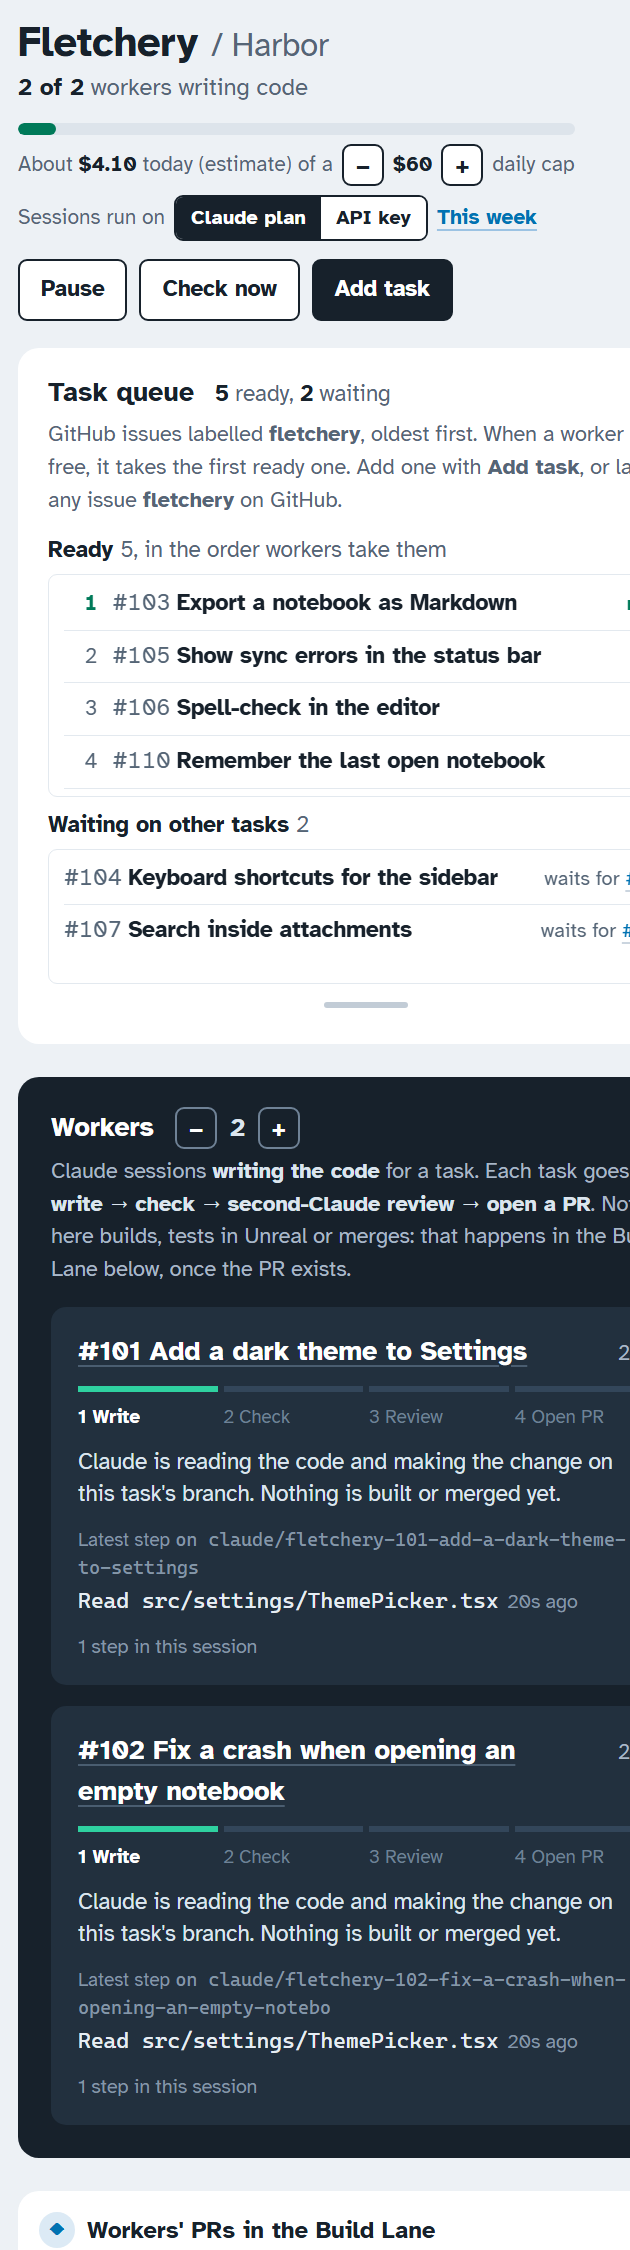
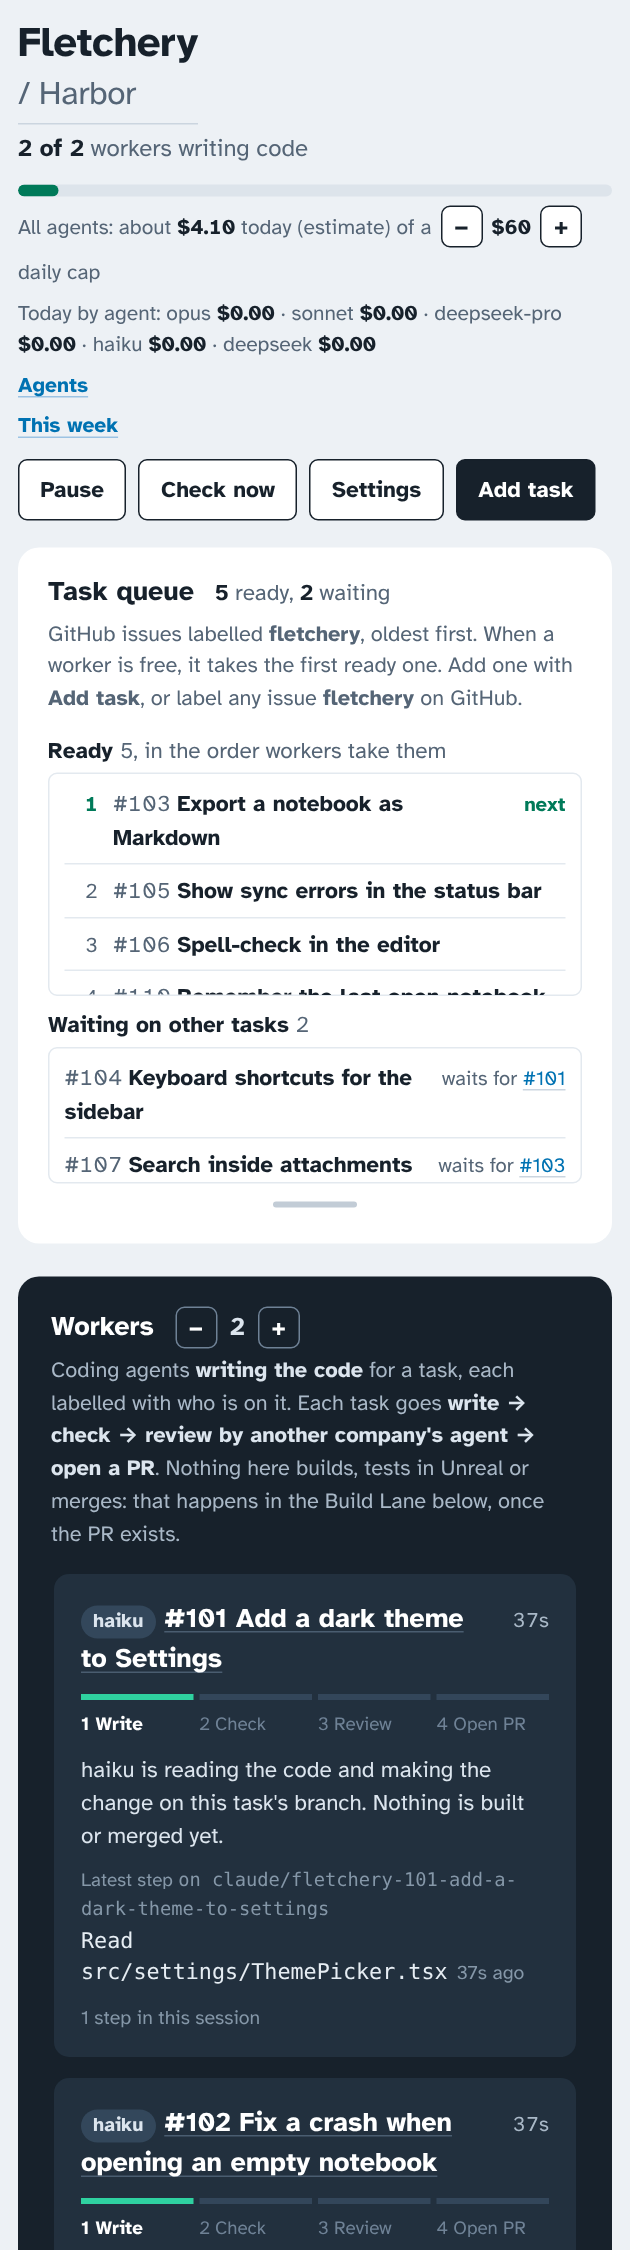
README rewritten around Settings, Accounts and agents; new screenshots
- Install no longer asks for a profile file: fill in the project in Settings.
- New sections: Coding agents (how it picks, scores, adding a model, accounts), Add another project, Settings.
- Everyday tasks, costs and troubleshooting updated (0 workers, Accounts, sign-ins, limits shared per account).
- Screenshots retaken from the Harbor demo, plus agents, accounts, settings and projects; ?open=settings|accounts|projects
  and ?scores=<agent> let Make-Screenshots.ps1 take them.

Claude-Session: https://claude.ai/code/session_014qW22QyV89sta7H7nZZoKp

diff --git a/ui/index.html b/ui/index.html
@@ -1496,7 +1496,7 @@ $("taskForm").onsubmit = async ev => {
   finally { save.disabled = false; }
 };
 
-// ?open=week|add opens that dialog, and #<section id> scrolls to it, once the first data is in (docs screenshots).
+// ?open=week|add|settings|accounts|projects opens that dialog, ?scores=<agent> opens that agent's scores, and #<section id> scrolls to it, once the first data is in (docs screenshots).
 const params = new URLSearchParams(location.search);
 // ?only=queue|workers|lane|board shows just that part (the docs' section screenshots)
 const only = params.get("only");
@@ -1507,6 +1507,8 @@ if (only) {
 refresh().then(() => {
   if (params.get("open") === "week" && last) { renderWeek(last); $("weekDlg").showModal(); }
   if (params.get("open") === "add") { $("dlg").showModal(); }
+  if (["settings", "accounts", "projects"].includes(params.get("open"))) openSettings(params.get("open") === "settings" ? "project" : params.get("open"));
+  if (params.get("scores")) document.querySelectorAll("details.mrow").forEach(d => { if (d.dataset.sc === params.get("scores")) d.open = true; });
   if (location.hash) { const el = document.getElementById(location.hash.slice(1)); if (el) el.scrollIntoView(); }
 });
 setInterval(refresh, 3000);

diff --git a/README.md b/README.md
@@ -6,33 +6,35 @@
 
 <p align="center"><strong>Turn GitHub issues into finished, tested pull requests while you do something else.</strong></p>
 
-Fletchery is a Windows app for one person and a team of Claude workers. You write what you want as GitHub issues.
-Claude writes each change on its own branch, Fletchery checks it, a second Claude reviews it, and it becomes a pull
-request. Your build lane then builds, tests and merges it. One window shows all of it, and nothing merges without passing
-your checks.
+Fletchery is a Windows app for one person and a team of AI coding agents (Claude, Codex, DeepSeek and others through
+OpenCode). You write what you want as GitHub issues. An agent writes each change on its own branch, Fletchery checks
+it, an agent from a different company reviews it, and it becomes a pull request. Your build lane then builds, tests
+and merges it. One window shows all of it, and nothing merges without passing your checks.
 
 ![Fletchery with a queue of tasks, two workers writing code, and their pull requests (illustrative data)](docs/images/fletchery/overview.png)
 
 <sub>Every screenshot here is the real app showing a made-up project, "Harbor". See [where the pictures come from](#where-the-pictures-come-from).</sub>
 
 **Jump to:** [How it works](#how-it-works) · [Install](#install) · [First ten minutes](#first-ten-minutes) ·
-[Everyday tasks](#everyday-tasks) · [Costs and limits](#costs-and-limits) · [Project rules](#project-rules) ·
+[Everyday tasks](#everyday-tasks) · [Coding agents](#coding-agents) · [Add another project](#add-another-project) ·
+[Settings](#settings) · [Costs and limits](#costs-and-limits) · [Project rules](#project-rules) ·
 [Something looks wrong](#something-looks-wrong) · [For developers](#for-developers)
 
 ## How it works
 
 ```
  GitHub issues ──▶ Workers ──────────────────────────────▶ Pull request ──▶ Build Lane ──▶ merged
- (your tasks)     Claude writes it, Fletchery checks it,          ▲         builds and tests
-                  a second Claude reviews it                      │         on your PC
+ (your tasks)     an agent writes it, Fletchery checks it,        ▲         builds and tests
+                  another company's agent reviews it              │         on your PC
                                                                   └── fixer ◀── sent back
 ```
 
 | Part | What you see | What it does |
 |---|---|---|
 | **Task queue** | Issues with the project's label, oldest first, the next one marked | Waits for a free worker. A task that says `Depends on: #12` waits until #12 is done |
-| **Workers** | Each worker's task, its step (write, check, review, open PR) and the last thing it did | Claude sessions writing code on their own branches. They never build, merge or touch your other work |
+| **Workers** | Each worker's task, which agent has it, its step (write, check, review, open PR) and the last thing it did | Agent sessions writing code on their own branches. They never build, merge or touch your other work |
 | **Workers' PRs** and **Needs you** | The pull requests workers opened, and tasks that stopped for a decision | A PR the lane sends back goes to a fixer automatically, twice at most; after that it asks you |
+| **Agents** | Each provider (Anthropic, OpenAI, OpenCode Go…) and its models, with scores and status | Picks the cheapest agent good enough for each task, and switches agents on or off |
 | **Build Lane** | What is building, which step, how far, and the PRs waiting | Your own build machine, as before. Fletchery shows it and can pause it |
 
 <p>
@@ -42,49 +44,43 @@ your checks.
 ## Install
 
 **You need:** Windows 10 or 11, [Python 3.10 or newer](https://www.python.org/downloads/) (tick *Add python.exe to PATH*),
-[Git](https://git-scm.com/download/win), the [GitHub CLI](https://cli.github.com/) signed in (`gh auth login`), and
-[Claude Code](https://docs.claude.com/en/docs/claude-code/overview) signed in to your Claude plan (run `claude`, then
-`/login`). Microsoft Edge's WebView2, which draws the window, is already part of Windows 10 and 11.
+[Git](https://git-scm.com/download/win), the [GitHub CLI](https://cli.github.com/) signed in (`gh auth login`), and at
+least one coding agent signed in: [Claude Code](https://docs.claude.com/en/docs/claude-code/overview) (run `claude`,
+then `/login`), the Codex CLI (`codex login`) or [OpenCode](https://opencode.ai) (`opencode auth login`). Microsoft Edge's WebView2, which draws the window, is already part of Windows 10 and 11.
 
 1. **Get the code:** clone this repository, or use **Code → Download ZIP** and extract it.
-2. **Describe your project** in a profile. Copy [`examples/Example.profile.json`](examples/Example.profile.json) and fill
-   in the repository and the folder of a local clone; [First ten minutes](#first-ten-minutes) walks through it.
-3. **Run the installer** in Windows PowerShell, in the repository folder:
+2. **Run the installer** in Windows PowerShell, in the repository folder:
 
    ```powershell
-   powershell -NoProfile -ExecutionPolicy Bypass -File .\shell\Install-Fletchery.ps1 -Profile C:\path\to\MyProject.profile.json
+   powershell -NoProfile -ExecutionPolicy Bypass -File .\shell\Install-Fletchery.ps1
    ```
 
    It builds `Fletchery.exe` with the compiler that comes with Windows, installs the Claude Agent SDK for Python if it
    is missing, copies the app to `%LOCALAPPDATA%\Programs\Fletchery`, and adds **Fletchery** to the desktop and the
    Start menu. No administrator rights.
 
-4. **Open Fletchery.** To update later, pull this repository and run the installer again. Fletchery picks up the new
+3. **Open Fletchery** and fill in your project in **Settings** ([First ten minutes](#first-ten-minutes)). To update later, pull this repository and run the installer again. Fletchery picks up the new
    version between tasks, never in the middle of one.
 
 ## First ten minutes
 
-**1. The profile.** One small file per project:
+**1. Point it at your project.** Clone your repository somewhere on this PC first, for example
+`git clone https://github.com/you/harbor.git C:\Code\harbor`. Then open **Settings** and fill in **This project**:
 
-```json
-{
-  "name": "Harbor",
-  "repo": "example/harbor",
-  "workers": {
-    "projectRoot": "C:\\Code\\harbor",
-    "baseBranch": "main",
-    "label": "fletchery",
-    "maxParallel": 2,
-    "dailyBudgetUsd": 20
-  }
-}
-```
+- **GitHub repository**: `owner/name`, or paste its GitHub link.
+- **Local clone**: the folder you just cloned to. Fletchery makes each task its own worktree from it and never edits
+  your checked-out files.
+- **Base branch**: where pull requests go, usually `main`.
+- **Task label**: issues with this label become tasks (`fletchery` by default).
 
-- `repo` is `owner/name` from the GitHub address.
-- `projectRoot` is a local clone that Fletchery can make branches from; it never edits your checked-out files.
-- Issues with `label` are tasks.
-- `baseBranch` is where pull requests go.
-- If you also have a Build Lane, add its `statusFile`, `pauseFile` and `drive` (the same fields the classic app uses), and the Build Lane panel appears.
+Press **Check the project** to see that GitHub and the clone line up, then **Save**. Fletchery restarts once to pick
+it up. If you have a Build Lane, fill in its status file, pause file and drive under **Build Lane**, and its panel
+appears.
+
+<p><img src="docs/images/fletchery/settings.png" width="80%" alt="Settings, This project: name, repository, local clone, base branch, task label, then worker and Build Lane settings"></p>
+
+<sub>Prefer files? Everything here is saved in a small profile in `%APPDATA%\Fletchery\Projects`. See
+[`examples/Example.profile.json`](examples/Example.profile.json).</sub>
 
 **2. Give it a task.** Press **Add task** (or label any issue `fletchery` on GitHub). Write it like you would for a
 colleague: what to change, what not to touch, and how to tell it worked.
@@ -104,31 +100,89 @@ task lands under **Needs you**, its issue says what it needs; answer in a commen
 |---|---|
 | Add work | **Add task**, or label an issue on GitHub. `Depends on: #12` in the description makes it wait for #12 |
 | Stop new work for a while | **Pause** (top right). Workers already running finish; nothing new starts until **Resume** |
-| Run more or fewer workers at once | **−** / **+** next to *Workers* (1 to 6) |
+| Run more or fewer workers at once | **−** / **+** next to *Workers* (0 to 6) |
+| Stop new code but keep merging and building | Turn *Workers* down to **0**. Running sessions finish; the Build Lane carries on |
 | Spend less | **−** next to the daily cap. At the cap no new work starts that day |
 | See this week's usage | **This week** under the cap |
-| Switch between my Claude plan and an API key | **Claude plan** / **API key** under the cap (applies to the next session) |
-| Use Codex, DeepSeek or another agent too | Add `agents` to the profile ([Coding agents](docs/AGENTS.md)); then **On** / **Off** per agent in the Agents panel |
+| Switch an agent between its plan and an API key | **Settings > Accounts**, *Runs on* next to the agent (applies to its next session) |
+| Use Codex, DeepSeek or another model too | **Add agent** in the Agents panel, then **On** / **Off** per model ([Coding agents](#coding-agents)) |
+| See why an agent gets the tasks it does | Open its row in the Agents panel for its scores |
 | Send one task to a particular agent | An `agent:<name>` label, or `Agent: <name>` on its own line in the issue |
-| Store an API key for an agent | **Set** next to the key in the Agents panel (kept in Windows Credential Manager) |
+| Store an API key for an agent | **Settings > Accounts > API keys** (kept in Windows Credential Manager) |
+| Sign an agent in again | **Settings > Accounts**, **Sign in** next to its provider |
+| Work on another repository | **Settings > Projects** ([Add another project](#add-another-project)) |
 | Stop builds on the build PC | **Pause builds** in the Build Lane panel. A build already running finishes |
 | Close the window but keep working | Close it. Fletchery stays in the tray; right-click the tray icon to quit |
 | Make the task list taller | Drag the handle under the Task queue (or focus it and use the arrow keys) |
 
+## Coding agents
+
+The **Agents** panel groups agents by where they come from: **Anthropic** (Claude Code), **OpenAI** (Codex CLI) and
+each OpenCode provider, such as **OpenCode Go** for DeepSeek or Haiku. Each model is one row with its overall score, its
+status and an **On / Off** switch.
+
+![The Agents panel: Anthropic with opus and sonnet, OpenAI with two Codex models switched off, OpenCode Go with DeepSeek and Haiku; opus is open to show its scores](docs/images/fletchery/agents.png)
+
+**How it picks.** Each task gets a kind (C++ / Unreal, Python & tools, UI, Docs & data) and a difficulty (easy,
+medium, hard). Each difficulty has a bar. The cheapest agent that is on, signed in, not at a limit and scores above the
+bar gets the task. The review goes to the best reviewer from a different company than the writer. If an agent fails,
+the task moves up to a stronger one before it asks you.
+
+**Where the scores come from.** They start from public coding benchmarks for the model, then move with how the agent
+actually does on your tasks. Open a row to see each score and where it came from, and use **Edit scores** to set one
+yourself. **Refresh benchmarks** fetches the latest list. To send one task to a particular agent, give its issue an
+`agent:<name>` label.
+
+**Adding a model.** Press **Add agent** and type the model (for example `opencode-go/claude-haiku-5-5`). The name,
+company and scores fill in by themselves. [Coding agents](docs/AGENTS.md) has the details.
+
+**Accounts.** Sign-ins, plan or API key, and API keys are in **Settings > Accounts** (or **Accounts & keys** on the
+panel). Models on one sign-in share its limits, so when OpenCode Go hits its limit, all its models pause together and
+the others carry on.
+
+<p><img src="docs/images/fletchery/accounts.png" width="80%" alt="Settings, Accounts: each provider with a Sign in button, and each agent's status and whether it runs on the plan or an API key"></p>
+
+## Add another project
+
+Fletchery works on one project at a time and remembers all of them.
+
+1. Clone the new repository on this PC, for example `git clone https://github.com/you/desk-app.git C:\Code\desk-app`.
+2. Open **Settings > Projects** and fill in **Add a project**: a name, the repository, the clone folder, the base
+   branch and the task label.
+3. Press **Add project**. Fletchery checks that GitHub and the clone match, and creates the task labels on GitHub
+   (`fletchery`, `fletchery:queued`, `:running`, `:pr`, `:blocked`). The new project starts with one worker and a $20
+   daily cap, and can copy your agents.
+4. Press **Switch to it**. Running sessions finish first, then Fletchery opens the other project. Switch back the same
+   way.
+
+<p><img src="docs/images/fletchery/projects.png" width="80%" alt="Settings, Projects: the list of projects with Switch to it, and the Add a project form"></p>
+
+Optional: give the repository a `.fletchery/` folder with its own rules ([Project rules](#project-rules)).
+
+## Settings
+
+**Settings** (top of the window) has three tabs:
+
+| Tab | What's there |
+|---|---|
+| **This project** | Repository, clone, base branch, label; workers at once, daily cap, how often to check GitHub, fix attempts, code freeze, escalation; the Build Lane's files. Less common settings sit under *More…*. A setting marked *(restart)* applies after Fletchery restarts, which it offers to do |
+| **Accounts** | Each provider's sign-in, whether each agent runs on its plan or an API key, and the API keys |
+| **Projects** | Your projects, **Switch to it**, and **Add a project** |
+
 ## Costs and limits
 
-- **On your Claude plan** (the default), workers use the same plan as your own Claude chats, so their usage counts
-  against the plan's limits. The amounts Fletchery shows are estimates, not a bill. When a limit is reached, Fletchery
-  pauses by itself, and the task goes back in the queue with its work kept.
-- **On an API key**, set `ANTHROPIC_API_KEY` for your Windows user and switch to **API key**. Sessions are billed per
-  token, and the amounts shown are what they cost.
-- Two guards apply either way: a **daily cap** (no new work after it) and a **per-session budget**. If Claude's sign-in
-  expires, Fletchery pauses and tells you to run `claude` and `/login`.
+- **On a plan** (the default), each agent uses your own sign-in: your Claude plan, ChatGPT for Codex, or OpenCode Go.
+  Its usage counts against that plan's limits, and the amounts Fletchery shows are estimates, not a bill. When a limit
+  is reached, that agent (and every model on the same sign-in) pauses by itself, and its task goes back in the queue
+  with its work kept.
+- **On an API key**, store the key in **Settings > Accounts** and switch that agent's *Runs on* to **API key**.
+  Sessions are billed per token, and the amounts shown are what they cost.
+- Two guards apply either way: a **daily cap** (no new work after it) and a **per-session budget**. If a sign-in
+  expires, that agent pauses and its provider shows **Not signed in · sign in**.
 
 <p><img src="docs/images/fletchery/usage-week.png" width="70%" alt="Usage over the last seven days as columns, with the daily cap marked and the same numbers as a table"></p>
 
-Each agent in [Coding agents](docs/AGENTS.md) runs on its own plan or key, so its limits are its own. A limit on one
-agent pauses that agent only, and its tasks go to the others.
+A limit on one account pauses only the agents on it, and their tasks go to the others.
 
 ## Project rules
 
@@ -161,17 +215,19 @@ Releases, the integration mode, timing history and merge controls are still in t
 - **Branches only:** workers work on their own branches in their own folders. They never push to your main branches,
   never merge and never force-push.
 - **Reviewable:** every change is a pull request with the checks it passed and what could not be verified.
-- **No hidden credentials:** Fletchery uses your `gh` and `claude` sign-ins. An API key stays in your Windows user's
-  environment, never in a profile.
+- **No hidden credentials:** Fletchery uses your `gh` and agent sign-ins. API keys are kept in Windows Credential
+  Manager, never in a profile, the repository or the log, and the app shows only their last four characters.
 
 ## Something looks wrong
 
 | You see | What to do |
 |---|---|
-| "Claude needs signing in again" | Open a terminal, run `claude`, type `/login`. Work resumes on the next check |
+| "Not signed in" on a provider | **Settings > Accounts**, **Sign in**, then **Check sign-ins**. Work resumes on the next check |
+| An agent says "Paused until…" | It hit a usage limit. Its tasks go to the other agents; it comes back by itself |
+| Nothing new starts | Check *Workers* is not at 0, the daily cap is not reached, and **Pause** is not on |
 | "Can't reach Fletchery's backend" | The app restarts it by itself. If it stays, quit from the tray and reopen; the log is under **Open log folder** in the tray menu |
 | A task keeps landing under **Needs you** | Read the last comment on its issue: it says what a person must decide |
-| The Build Lane panel is missing | Add `statusFile` (and `pauseFile`, `drive`) to the profile |
+| The Build Lane panel is missing | Fill in the Build Lane's status file (and pause file, drive) in **Settings** |
 | Fletchery did not start: Python | Install Python 3.10+ from python.org with *Add to PATH*, then run the installer again |
 
 ## For developers
